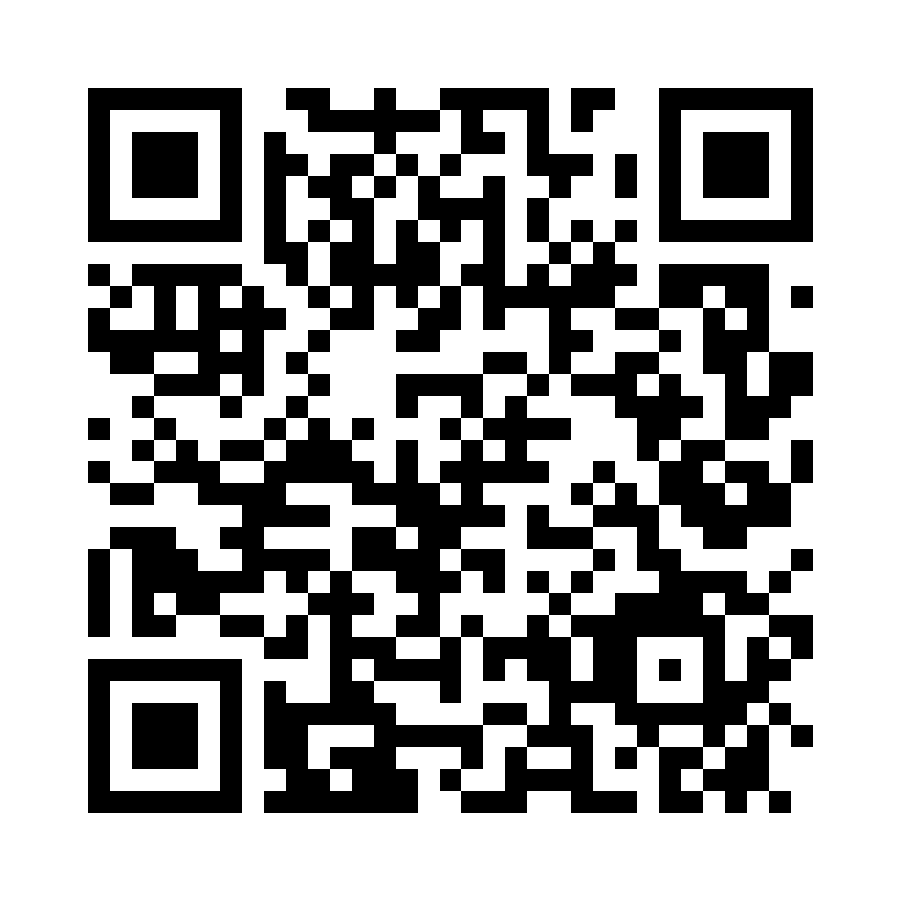
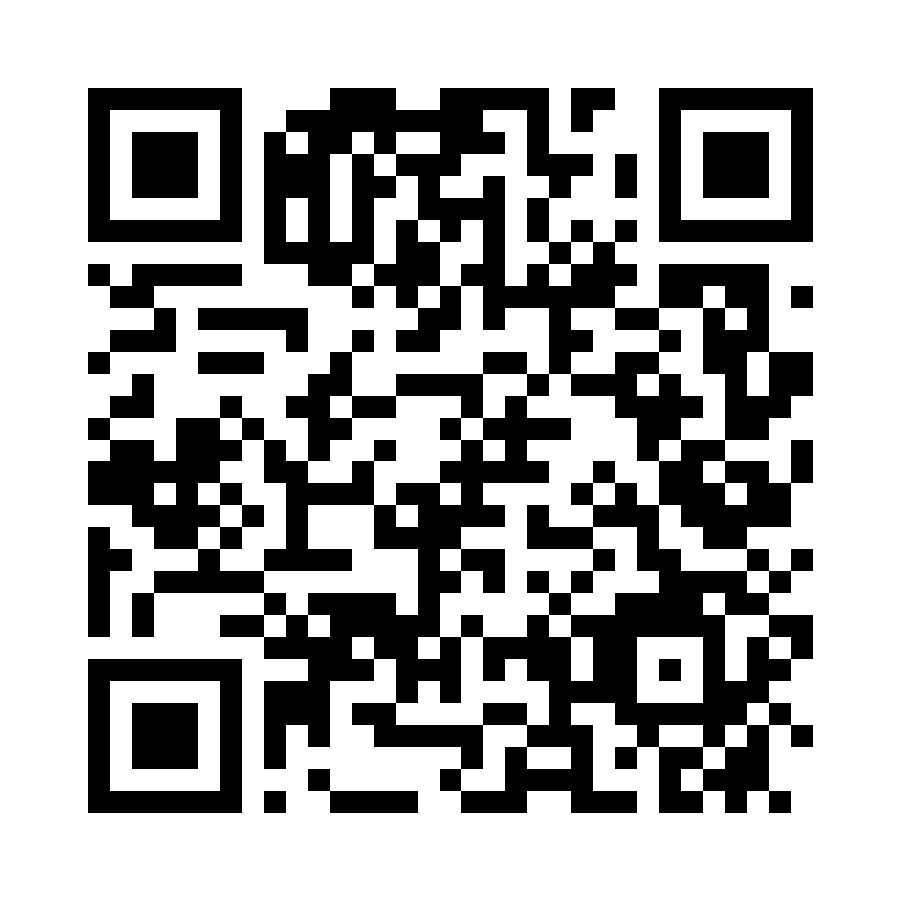
URL guncelle: repo digital-cartvizit
Claude-Session: https://claude.ai/code/session_0147FuxjrGTpAeoaEhfZkJws

Changed region(s): [[0.0933, 0.0933, 0.4667, 0.9022], [0.4667, 0.1244, 0.5289, 0.2178], [0.8089, 0.5911, 0.8711, 0.6533]]

diff --git a/qr.html b/qr.html
@@ -16,7 +16,7 @@
 </head>
 <body>
   <h1>Dijital kartvizit — QR kod</h1>
-  <input id="url" value="https://kbrterz.github.io/dijital-kartvizit/" />
+  <input id="url" value="https://kbrterz.github.io/digital-cartvizit/" />
   <div id="box"><canvas id="cv"></canvas></div>
   <a id="dl" class="btn" download="kartvizit-qr.png">PNG indir</a>
   <small>URL'yi değiştir → QR anında güncellenir.</small>

diff --git a/README.md b/README.md
@@ -38,18 +38,18 @@ Form → n8n webhook → Google Sheet + Kübra'ya e-posta bildirimi.
 
 ## GitHub Pages'e yayınlama
 
-GitHub kullanıcı: **Kbrterz** → yayın URL'si: `https://kbrterz.github.io/dijital-kartvizit/`
+GitHub kullanıcı: **Kbrterz** → yayın URL'si: `https://kbrterz.github.io/digital-cartvizit/`
 
-1. GitHub'da yeni repo aç: `dijital-kartvizit` (public), README ekleme (boş bırak).
-2. Bu klasör zaten `git init` + ilk commit ile hazır. Push et:
+1. GitHub repo: `Kbrterz/digital-cartvizit` (public, boş).
+2. Bu klasör zaten `git init` + commit ile hazır. Push et:
    ```bash
    cd "C:\Users\terzi\Desktop\dijital-kartvizit"
-   git remote add origin https://github.com/Kbrterz/dijital-kartvizit.git
+   git remote add origin https://github.com/Kbrterz/digital-cartvizit.git
    git push -u origin main
    ```
    (Push'ta GitHub kullanıcı adı + Personal Access Token istenir.)
 3. Repo → **Settings → Pages** → Source: `Deploy from a branch`, Branch: `main` / `root` → Save.
-4. 1-2 dk sonra canlı: `https://kbrterz.github.io/dijital-kartvizit/`
+4. 1-2 dk sonra canlı: `https://kbrterz.github.io/digital-cartvizit/`
 5. QR kod `qr.png` olarak hazır (bu URL'ye işaret ediyor). Değiştirmek istersen `qr.html`'i aç.
 
 ## Düzenlemek istersen
